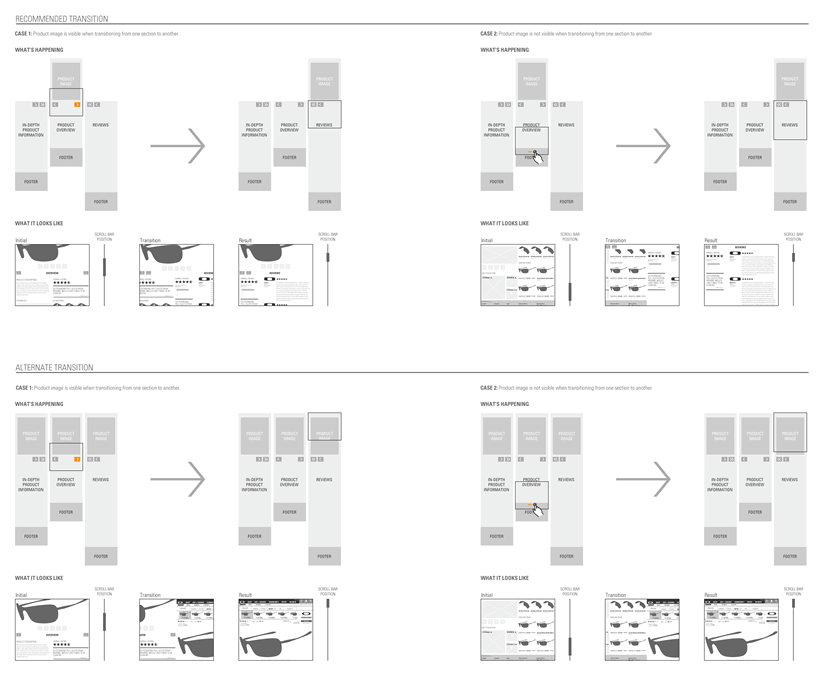
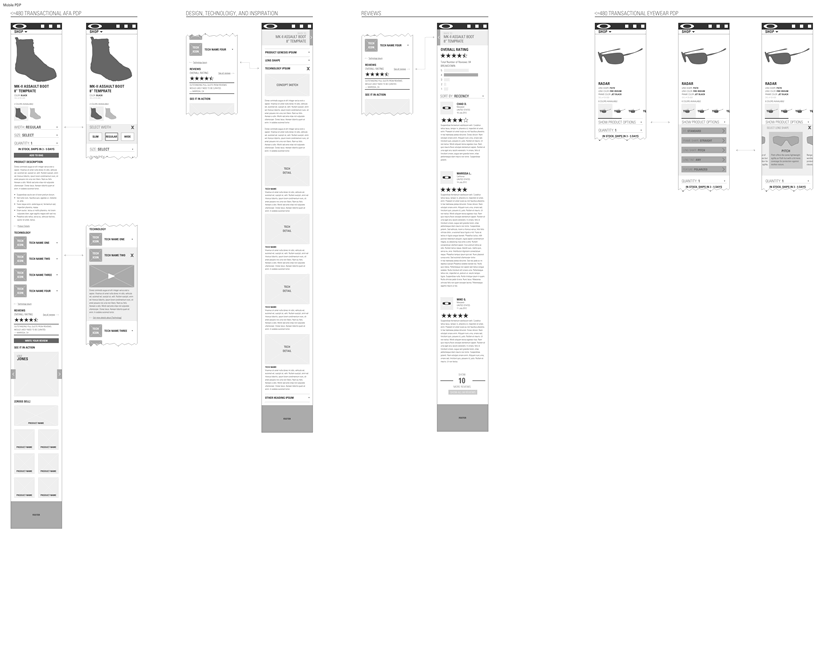
implemented ticker on oakley

diff --git a/index.html b/index.html
@@ -8,7 +8,7 @@ layout: main
   <div>
     <h1>hey there!</h1>
 		<p>
-			I'm matt sugihara, an experience designer based in san&nbsp;francisco. If you're curious about the decisions that went into these deliverables, I'd like to speak with you. <a href="mailto:mattsugihara@gmail.com">Get in touch</a>.
+			I'm matt sugihara, an experience designer based in san&nbsp;francisco. Here's just a sample of my work. If you're curious about the decisions that went into these deliverables, <a href="mailto:mattsugihara@gmail.com">get in touch</a>.
 		</p>
   </div>
   <div id="social-media">

diff --git a/css/main.css b/css/main.css
@@ -1362,6 +1362,9 @@ blockquote p {
   margin: 1rem auto;
   max-width: 80%;
 }
+#hi img h1, #hi div h1 {
+  text-align: center;
+}
 
 #hi img {
   border-radius: 50%;
@@ -1520,4 +1523,22 @@ blockquote p {
 }
 .project .content img {
   box-shadow: 1px 1px 8px #ddd;
+}
+
+#watch {
+  position: relative;
+}
+
+#face {
+  position: absolute;
+  width: 19.927095990279%;
+  margin-left: 26.002430133657%;
+  margin-top: 34.507897934386%;
+  top: 0;
+  left: 0;
+}
+#face img {
+  position: absolute;
+  width: 100%;
+  box-shadow: none;
 }

diff --git a/sass/main.scss b/sass/main.scss
@@ -1062,6 +1062,10 @@ blockquote p {
   display:block;
   margin: 1rem auto;
   max-width: 80%;
+
+  h1{
+    text-align: center;
+  }
 }
 
 #hi img{
@@ -1257,5 +1261,24 @@ blockquote p {
       box-shadow: 1px 1px 8px #ddd;
     }
 
+  }
+}
+
+#watch{
+  position: relative;
+}
+
+#face {
+  position: absolute;
+  width: 19.927095990279%;
+  margin-left: 26.002430133657%;
+  margin-top: 34.507897934386%;
+  top: 0;
+  left: 0;
+  
+  img {
+    position: absolute;
+    width: 100%;
+    box-shadow: none;
   }
 }

diff --git a/js/ticker.js b/js/ticker.js
@@ -42,11 +42,6 @@ function spinHands () {
 function updateClock () {
 	getCurrentTime();
 	spinHands();
-	
-	// set digital clock, remove
-	var dateString = hour + ':' + minute + ':' + second;
-	var clock = document.getElementById('clock');
-	clock.innerHTML = dateString;
 
 }
 

diff --git a/ticker.html b/ticker.html
@@ -6,8 +6,6 @@
 	<link rel="stylesheet" type="text/css" href="/css/ticker.css">
 </head>
 <body>
-	<p id="clock"></p>
-	<p id="watch"></p>
 	<div id="watch">
 		<img src="/img/watch/transfer-case.png" alt="transfer-case">
 		<div id="face">

diff --git a/_posts/2014-01-01-oakley.md b/_posts/2014-01-01-oakley.md
@@ -47,26 +47,39 @@ htmlID: "oak"
     <div class="small-12 columns">
         <h2>Sample Deliverables</h2>
     </div>
-    <div class="large-4 push-8 columns">
-    </div>
-    <div class="large-8 pull-4 columns">
+    <div class="large-8 columns end">
          <a href="/img/oak1.png"><img src="/img/oak1-small.png" alt="A wireframe of the product detail page at wide resolutions" /></a>
     </div>
 </div>
 <div class="row">
     <div class="large-8 columns end">
-         <a href="/img/oak2.png"><img src="/img/oak2-small.png" alt="A collection of wireframes of the product detail page at narrow resolutions" /></a>
-    </div>
-</div>
-<div class="row">
-    <div class="large-4 push-8 columns">
-    </div>
-    <div class="large-8 pull-4 columns">
-         <a href="/img/oak3.png"><img src="/img/oak3-small.png" alt="A diagram explaining horizontal scrolling behavior" /></a>
+        <div id="watch">
+            <a href="/img/oak2.png">
+                <img src="/img/oak2-small.png" alt="A wireframe used for everything other than eyewear" />
+            </a>
+             <div id="face">
+                <div>
+                    <img id="hour" src="/img/watch/hour.png" alt="hour hand" />
+                    <img id="minute" src="/img/watch/minute.png" alt="minute hand" />
+                    <img id="second" src="/img/watch/second.png" alt="second hand" />
+                </div>
+            </div>
+        </div>
     </div>
 </div>
 <div class="row">
     <div class="large-8 columns end">
-         <a href="/img/oak4.png"><img src="/img/oak4-small.png" alt="A wireframe of the athlete detail page" /></a>
+         <a href="/img/oak3.png"><img src="/img/oak3-small.png" alt="A collection of wireframes of the product detail page at narrow resolutions" /></a>
     </div>
 </div>
+<div class="row">
+    <div class="large-8 columns end">
+         <a href="/img/oak4.png"><img src="/img/oak4-small.png" alt="A diagram explaining horizontal scrolling behavior" /></a>
+    </div>
+</div>
+<div class="row">
+    <div class="large-8 columns end">
+         <a href="/img/oak5.png"><img src="/img/oak5-small.png" alt="A wireframe of the athlete detail page" /></a>
+    </div>
+</div>
+<script type="text/javascript" src="/js/ticker.js"></script>
